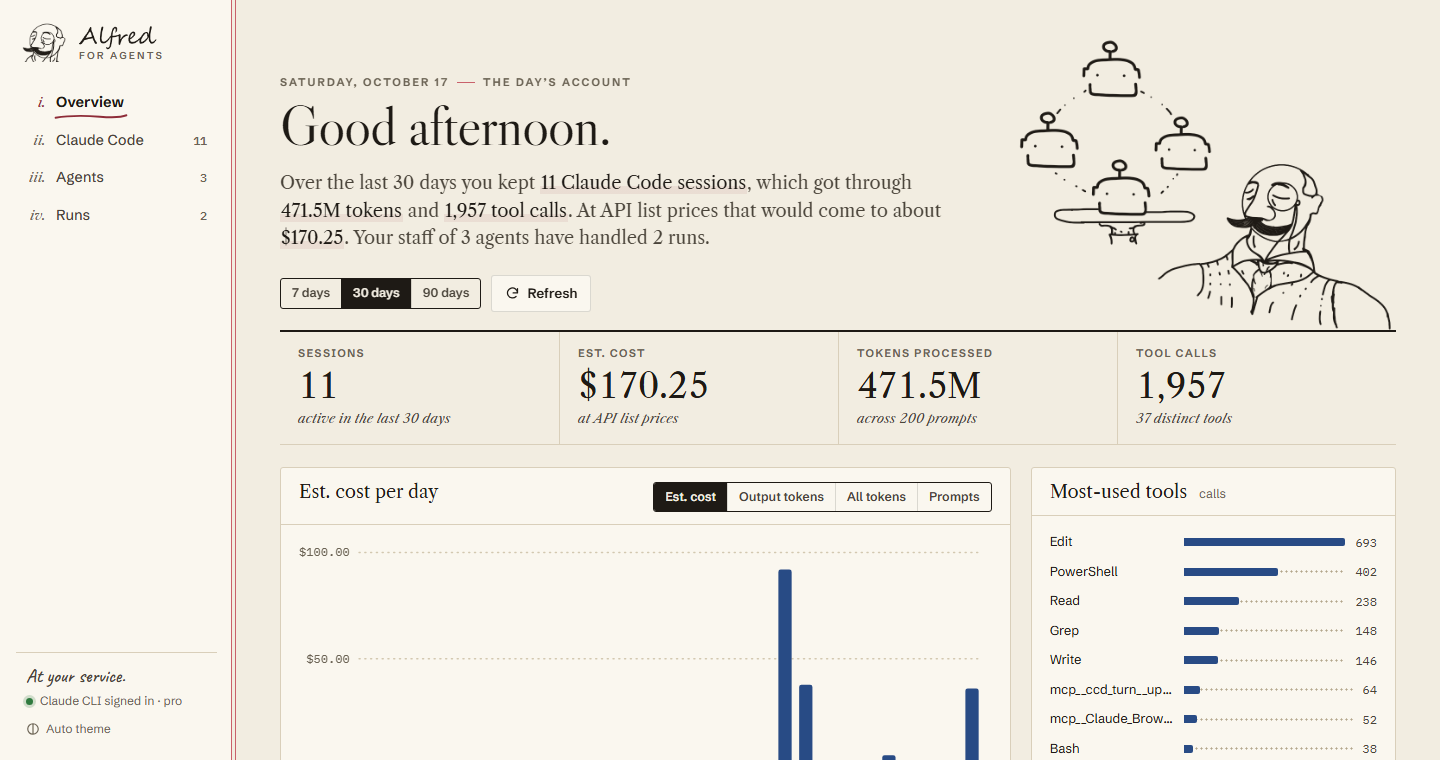
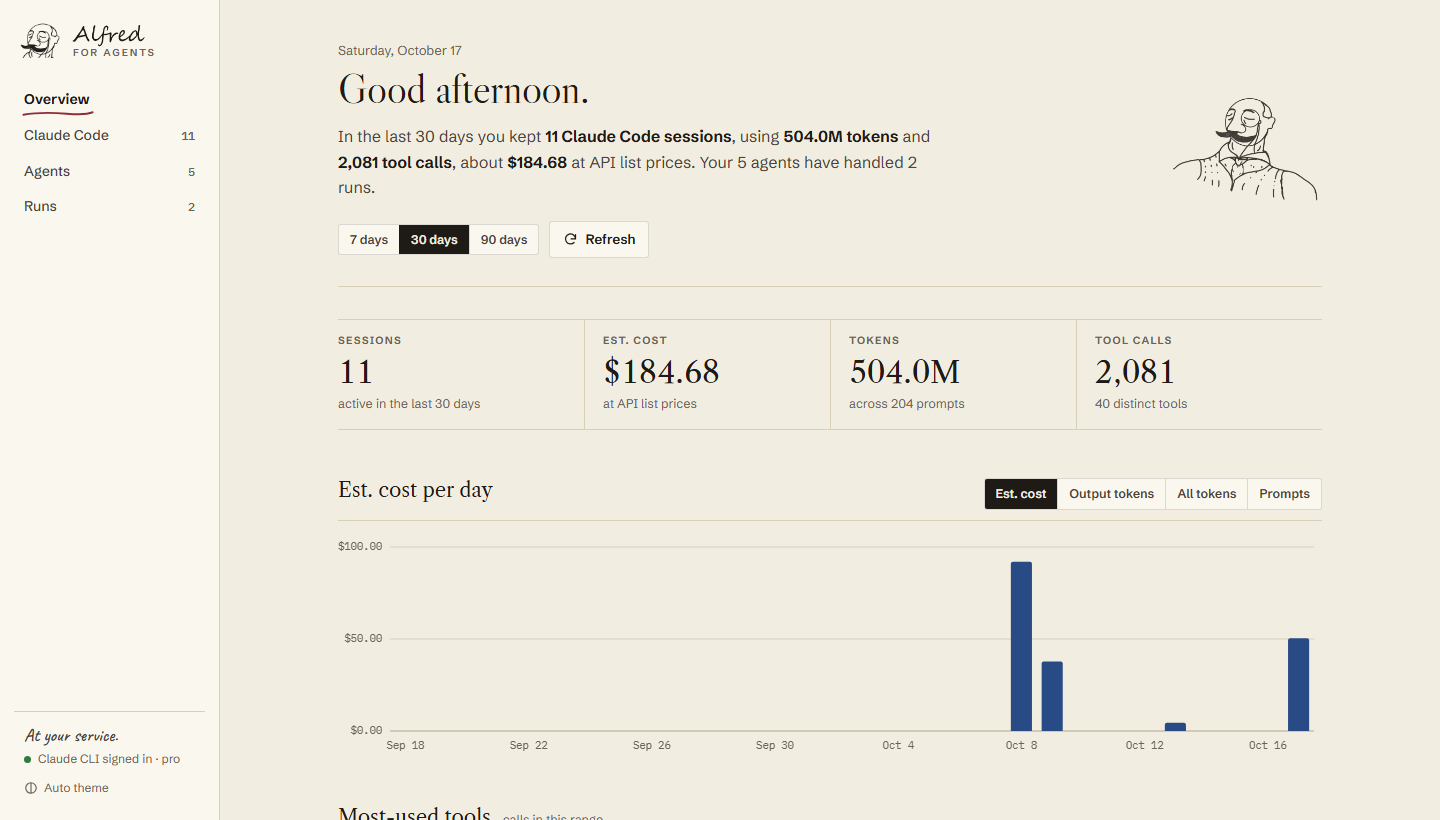
Retake README screenshots for the linear design
Replaces the screenshots with the single-column design from #2 (Overview in
Day and Evening, an example five-agent team, a Researcher run) and updates
the design description.

diff --git a/README.md b/README.md
@@ -54,7 +54,7 @@ Cost, tokens, prompts and tool calls per day for the last 7, 30 or 90 days. See 
 Alfred gets its own window and a tray icon. When an agent finishes in the background, you get a Windows notification. Alfred can also start with Windows.
 
 ### 🎩 A butler, not a dashboard
-The design is a butler's service ledger, drawn from the hand-made Alfred illustration: Caslon type, ruled pages, a robot portrait for each agent on your staff, and Day and Evening themes.
+A calm, single-column design built around the hand-drawn Alfred illustration: Caslon headings, a robot portrait for each agent, an overseer agent shown first, and Day and Evening themes.
 
 </td>
 </tr>
@@ -62,7 +62,7 @@ The design is a butler's service ledger, drawn from the hand-made Alfred illustr
 
 ![A Researcher agent run: web searches and page reads stream in on a thread, followed by a sourced answer](docs/screenshots/run.png)
 
-![The Agents page: three starter agents, each with its own robot portrait](docs/screenshots/agents.png)
+![The Agents page with an example team: a Lead that oversees the others, two Devs, Research and Design](docs/screenshots/agents.png)
 
 <table>
 <tr>
